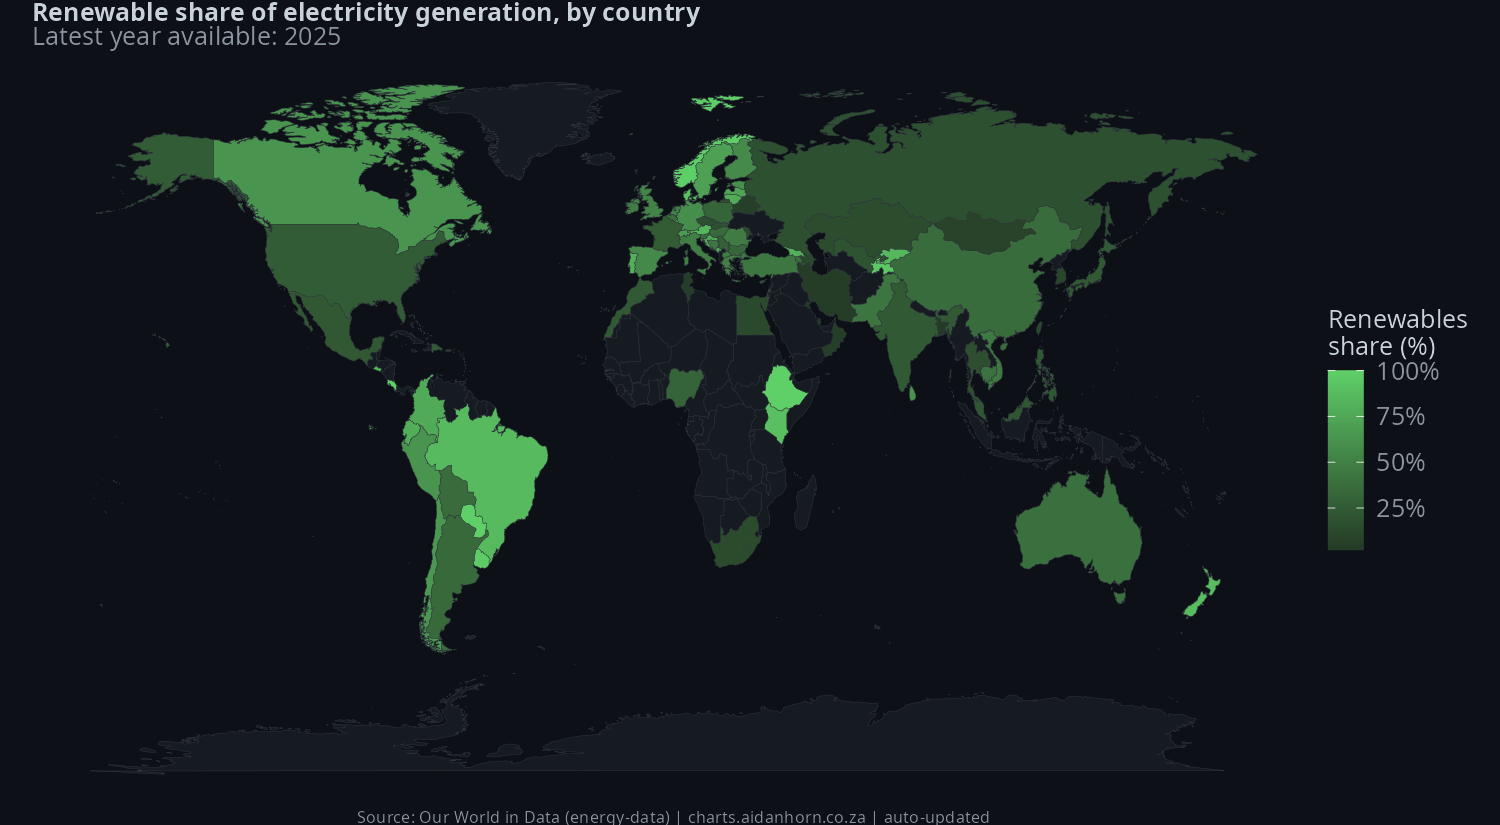
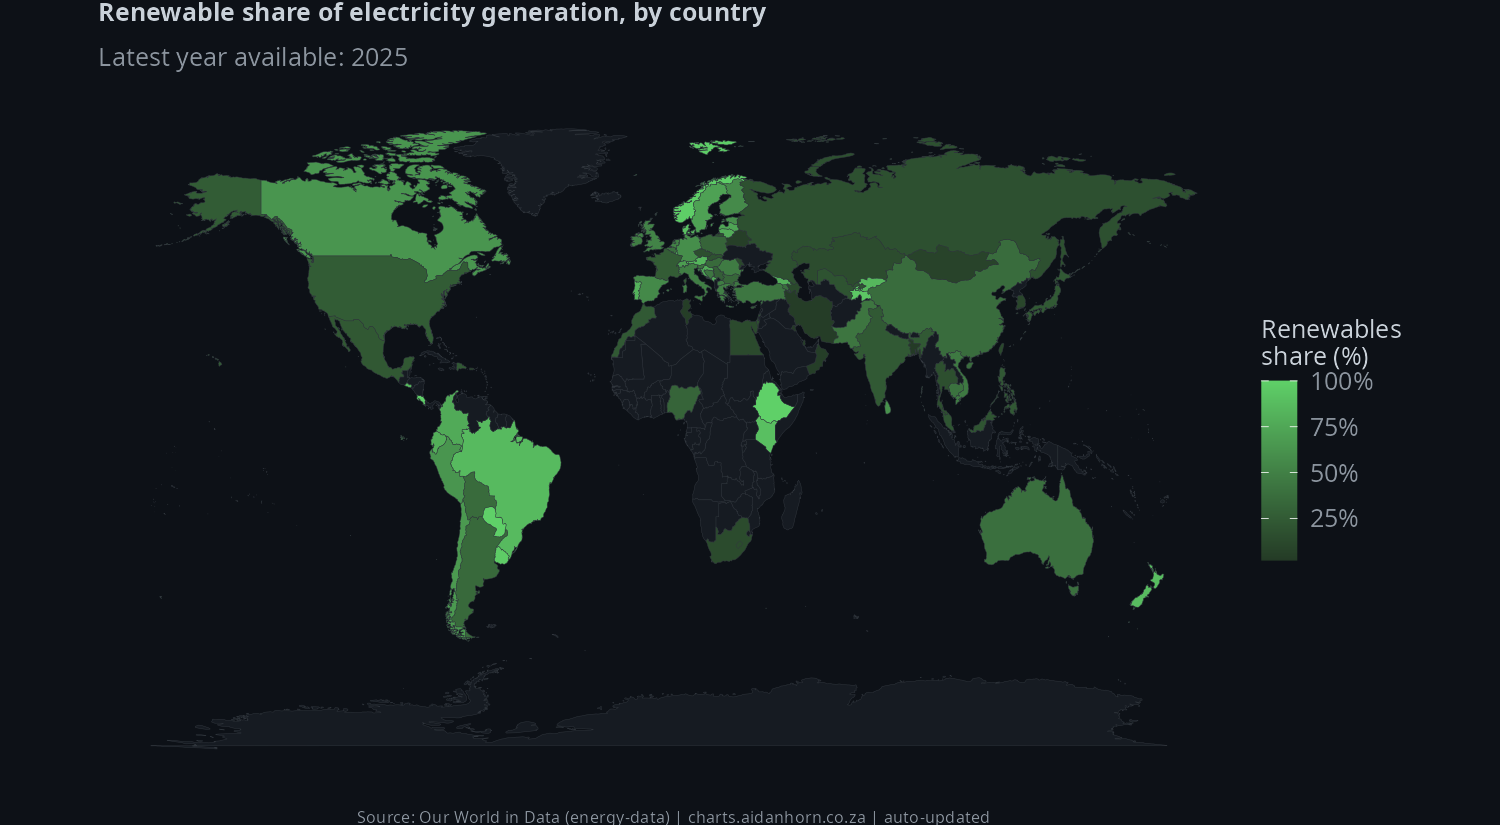
Add real estate, commodities, and climate pillars; improve chart spacing
Real estate: OECD real house-price growth, major markets (fixed a
mixed-frequency data bug - the dataflow has both annual and quarterly
rows for the same series). Commodities: Brent crude via FRED's free CSV.
Climate: global PM2.5 point-map via OpenAQ v3 (needs OPENAQ_API_KEY,
added as a repo secret). Traffic deliberately deferred - the only free
source is a client-rendered ranking page with no accessible data
endpoint, and it's already the lowest-priority pillar. Also widened
title/subtitle/caption margins across all charts per feedback.

diff --git a/index.html b/index.html
@@ -42,17 +42,17 @@
 
 <div class="pillar">
   <h2>Climate — global air quality</h2>
-  <p class="status">Coming soon.</p>
+  <img src="assets/climate/air_quality.png" alt="World map of PM2.5 air quality readings">
 </div>
 
 <div class="pillar">
   <h2>Real estate — global house-price growth</h2>
-  <p class="status">Coming soon.</p>
+  <img src="assets/real_estate/house_prices.png" alt="Real house-price growth by country, year-on-year">
 </div>
 
 <div class="pillar">
   <h2>Commodities — oil (Brent/WTI)</h2>
-  <p class="status">Coming soon.</p>
+  <img src="assets/commodities/oil_brent.png" alt="Brent crude oil price chart">
 </div>
 
 <div class="pillar">
